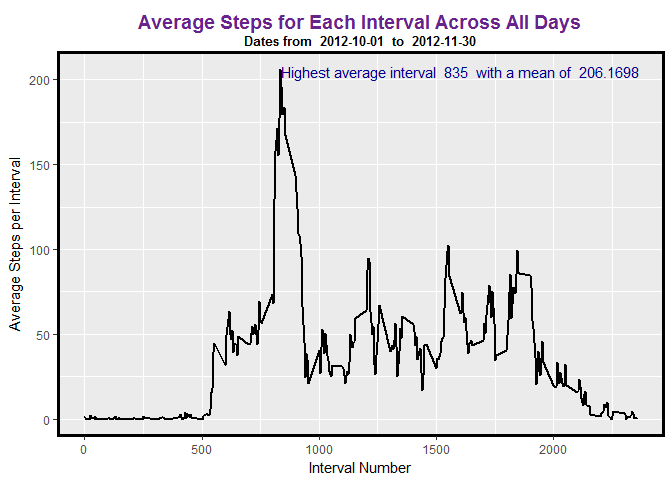
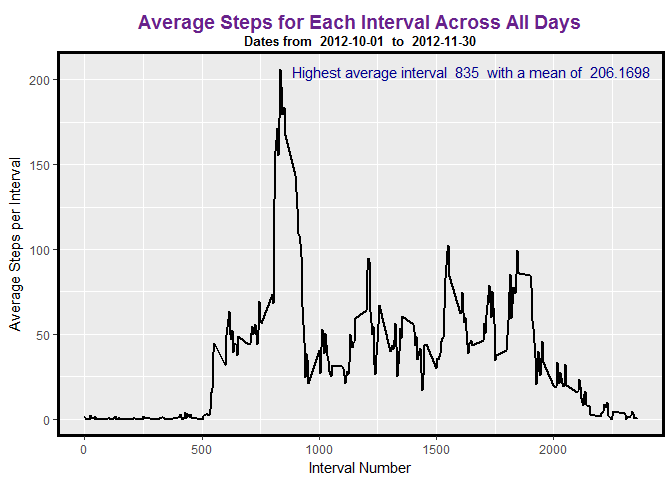
First Draft

Changed region(s): [[0.4062, 0.125, 0.9688, 0.1875]]

diff --git a/PA1_template.html b/PA1_template.html
@@ -9,6 +9,7 @@
 <meta name="generator" content="pandoc" />
 
 
+<meta name="author" content="Victoria Cocco" />
 
 
 <title>Reproducible Research: Peer Assessment 1</title>
@@ -116,19 +117,25 @@ $(document).ready(function () {
 
 
 <h1 class="title toc-ignore">Reproducible Research: Peer Assessment 1</h1>
+<h4 class="author"><em>Victoria Cocco</em></h4>
 
 </div>
 
 
 <div id="loading-and-preprocessing-the-data" class="section level2">
 <h2>Loading and preprocessing the data</h2>
+<div id="load-the-data-i.e.read.csv" class="section level3">
+<h3>Load the data (i.e. read.csv())</h3>
+</div>
+<div id="processtransform-the-data-if-necessary-into-a-format-suitable-for-your-analysis" class="section level3">
+<h3>Process/transform the data (if necessary) into a format suitable for your analysis</h3>
 <pre class="r"><code>        install.packages('dplyr', repos=&quot;http://cran.rstudio.com/&quot;)</code></pre>
 <pre><code>## Installing package into 'C:/Users/Victoria/Documents/R/win-library/3.3'
 ## (as 'lib' is unspecified)</code></pre>
 <pre><code>## package 'dplyr' successfully unpacked and MD5 sums checked
 ## 
 ## The downloaded binary packages are in
-##  C:\Users\Victoria\AppData\Local\Temp\Rtmp0SZZQA\downloaded_packages</code></pre>
+##  C:\Users\Victoria\AppData\Local\Temp\RtmpwFBnzv\downloaded_packages</code></pre>
 <pre class="r"><code>        library(dplyr)</code></pre>
 <pre><code>## Warning: package 'dplyr' was built under R version 3.3.3</code></pre>
 <pre><code>## 
@@ -145,7 +152,7 @@ $(document).ready(function () {
 <pre><code>## package 'dtplyr' successfully unpacked and MD5 sums checked
 ## 
 ## The downloaded binary packages are in
-##  C:\Users\Victoria\AppData\Local\Temp\Rtmp0SZZQA\downloaded_packages</code></pre>
+##  C:\Users\Victoria\AppData\Local\Temp\RtmpwFBnzv\downloaded_packages</code></pre>
 <pre class="r"><code>        library(dtplyr)</code></pre>
 <pre><code>## Warning: package 'dtplyr' was built under R version 3.3.3</code></pre>
 <pre class="r"><code>        install.packages('ggplot2', repos=&quot;http://cran.rstudio.com/&quot;)</code></pre>
@@ -154,7 +161,7 @@ $(document).ready(function () {
 <pre><code>## package 'ggplot2' successfully unpacked and MD5 sums checked
 ## 
 ## The downloaded binary packages are in
-##  C:\Users\Victoria\AppData\Local\Temp\Rtmp0SZZQA\downloaded_packages</code></pre>
+##  C:\Users\Victoria\AppData\Local\Temp\RtmpwFBnzv\downloaded_packages</code></pre>
 <pre class="r"><code>        library(ggplot2)</code></pre>
 <pre><code>## Warning: package 'ggplot2' was built under R version 3.3.3</code></pre>
 <pre class="r"><code>        workingdir &lt;- getwd()
@@ -173,6 +180,7 @@ $(document).ready(function () {
                 tblactivity &lt;- tbl_df(activity)
                 rm(activity)
         }</code></pre>
+</div>
 </div>
 <div id="what-is-mean-total-number-of-steps-taken-per-day" class="section level2">
 <h2>What is mean total number of steps taken per day?</h2>
@@ -291,11 +299,11 @@ $(document).ready(function () {
         submsg &lt;- paste(submsg, maxinterval)
         submsg &lt;- paste(submsg, &quot; with a mean of &quot;)
         submsg &lt;- paste(submsg, format(maxmeansteps, nsmall=3))
-        plot3 &lt;- plot3 + annotate(&quot;text&quot;, x = 1600, y = 205, label = submsg, color = &quot;blue4&quot;)
+        plot3 &lt;- plot3 + annotate(&quot;text&quot;, x = 1650, y = 205, label = submsg, color = &quot;blue4&quot;)
         
         
         print(plot3)</code></pre>
[2 lines of base64/hex data omitted]
 </div>
 </div>
 <div id="imputing-missing-values" class="section level2">
@@ -453,6 +461,71 @@ $(document).ready(function () {
 </div>
 <div id="are-there-differences-in-activity-patterns-between-weekdays-and-weekends" class="section level2">
 <h2>Are there differences in activity patterns between weekdays and weekends?</h2>
+<div id="create-a-new-factor-variable-in-the-dataset-with-two-levels-weekday-and-weekend" class="section level3">
+<h3>Create a new factor variable in the dataset with two levels – “weekday” and “weekend”</h3>
+</div>
+<div id="indicating-whether-a-given-date-is-a-weekday-or-weekend-day." class="section level3">
+<h3>indicating whether a given date is a weekday or weekend day.</h3>
+<pre class="r"><code>        tbldaysteps &lt;- tblcomplete %&gt;%
+                select(steps,
+                       interval,
+                       date) %&gt;%
+                mutate(intervaldate = as.Date(date, format = &quot;%Y-%m-%d&quot;))
+
+        tbldaysteps &lt;- tbldaysteps %&gt;%
+                select(steps,
+                       interval, 
+                       intervaldate) %&gt;%
+                mutate(datetype =  ifelse(weekdays(intervaldate)==&quot;Saturday&quot; |                                       weekdays(intervaldate)==&quot;Sunday&quot;, &quot;Weekend&quot;, &quot;Weekday&quot;)) %&gt;%
+                arrange(datetype, interval) %&gt;%
+                group_by(datetype, interval) %&gt;%
+                summarise(meansteps = mean(steps))</code></pre>
+</div>
+<div id="make-a-panel-plot-containing-a-time-series-plotof-the-5-minute-interval-x-axis" class="section level3">
+<h3>Make a panel plot containing a time series plotof the 5-minute interval (x-axis)</h3>
+</div>
+<div id="and-the-average-number-of-steps-taken" class="section level3">
+<h3>and the average number of steps taken,</h3>
+</div>
+<div id="averaged-across-all-weekday-days-or-weekend-days-y-axis." class="section level3">
+<h3>averaged across all weekday days or weekend days (y-axis).</h3>
+</div>
+<div id="the-plot-should-look-something-like-the-following" class="section level3">
+<h3>The plot should look something like the following,</h3>
+</div>
+<div id="which-was-created-using-simulated-data" class="section level3">
+<h3>which was created using simulated data:</h3>
+<pre class="r"><code>                cbPalette &lt;- c(&quot;purple2&quot;, 
+                               &quot;blue4&quot;)
+                
+                #create the plot
+                plot5 &lt;- ggplot(tbldaysteps, aes(x= interval, 
+                                             y= meansteps,
+                                             group = datetype, 
+                                             colour= datetype))
+                plot5 &lt;- plot5 + geom_line(size = 1) 
+                plot5 &lt;- plot5 + scale_colour_manual(values = cbPalette)
+                plot5 &lt;- plot5 + facet_wrap(~ datetype, ncol = 1, nrow = 2)
+                plot5 &lt;- plot5 + labs(x = &quot;Interval Number&quot; ,
+                                      y = &quot;Average Steps per Interval&quot;, 
+                                      title = &quot;Average Steps for Each Interval Across Each Day Type&quot;)
+                plot5 &lt;- plot5 + theme(plot.title=element_text(size=14, 
+                                                               hjust=0.5, 
+                                                               face=&quot;bold&quot;, 
+                                                               colour=&quot;darkorchid4&quot;, 
+                                                               vjust=-1))
+                plot5 &lt;- plot5 + theme(plot.subtitle=element_text(size=10, 
+                                                                  hjust=0.5, 
+                                                                  face=&quot;bold&quot;, 
+                                                                  colour=&quot;black&quot;, 
+                                                                  vjust=-1))
+                plot5 &lt;- plot5 + theme(panel.border = element_rect(colour = &quot;black&quot;,
+                                                                   fill=NA, 
+                                                                   size=2))
+                plot5 &lt;- plot5 + theme(legend.position=&quot;none&quot;)
+                print(plot5) </code></pre>
[1 lines of base64/hex data omitted]
+</div>
 </div>
 
 

diff --git a/PA1_template.md b/PA1_template.md
@@ -1,7 +1,10 @@
 # Reproducible Research: Peer Assessment 1
+Victoria Cocco  
 
 
 ## Loading and preprocessing the data
+### Load the data (i.e. read.csv())
+### Process/transform the data (if necessary) into a format suitable for your analysis
 
 
 
@@ -18,7 +21,7 @@
 ## package 'dplyr' successfully unpacked and MD5 sums checked
 ## 
 ## The downloaded binary packages are in
-## 	C:\Users\Victoria\AppData\Local\Temp\Rtmp0SZZQA\downloaded_packages
+## 	C:\Users\Victoria\AppData\Local\Temp\RtmpwFBnzv\downloaded_packages
 ```
 
 ```r
@@ -59,7 +62,7 @@
 ## package 'dtplyr' successfully unpacked and MD5 sums checked
 ## 
 ## The downloaded binary packages are in
-## 	C:\Users\Victoria\AppData\Local\Temp\Rtmp0SZZQA\downloaded_packages
+## 	C:\Users\Victoria\AppData\Local\Temp\RtmpwFBnzv\downloaded_packages
 ```
 
 ```r
@@ -83,7 +86,7 @@
 ## package 'ggplot2' successfully unpacked and MD5 sums checked
 ## 
 ## The downloaded binary packages are in
-## 	C:\Users\Victoria\AppData\Local\Temp\Rtmp0SZZQA\downloaded_packages
+## 	C:\Users\Victoria\AppData\Local\Temp\RtmpwFBnzv\downloaded_packages
 ```
 
 ```r
@@ -244,7 +247,7 @@
         submsg <- paste(submsg, maxinterval)
         submsg <- paste(submsg, " with a mean of ")
         submsg <- paste(submsg, format(maxmeansteps, nsmall=3))
-        plot3 <- plot3 + annotate("text", x = 1600, y = 205, label = submsg, color = "blue4")
+        plot3 <- plot3 + annotate("text", x = 1650, y = 205, label = submsg, color = "blue4")
         
         
         print(plot3)
@@ -409,3 +412,62 @@
 ## [1] "The difference between median with NAs and the imputed median is  -1.1886792452824"
 ```
 ## Are there differences in activity patterns between weekdays and weekends?
+### Create a new factor variable in the dataset with two levels – “weekday” and “weekend”
+### indicating whether a given date is a weekday or weekend day.
+
+```r
+        tbldaysteps <- tblcomplete %>%
+                select(steps,
+                       interval,
+                       date) %>%
+                mutate(intervaldate = as.Date(date, format = "%Y-%m-%d"))
+
+        tbldaysteps <- tbldaysteps %>%
+                select(steps,
+                       interval, 
+                       intervaldate) %>%
+                mutate(datetype =  ifelse(weekdays(intervaldate)=="Saturday" |                                       weekdays(intervaldate)=="Sunday", "Weekend", "Weekday")) %>%
+                arrange(datetype, interval) %>%
+                group_by(datetype, interval) %>%
+                summarise(meansteps = mean(steps))
+```
+### Make a panel plot containing a time series plotof the 5-minute interval (x-axis) 
+### and the average number of steps taken, 
+### averaged across all weekday days or weekend days (y-axis). 
+### The plot should look something like the following, 
+### which was created using simulated data:
+
+```r
+                cbPalette <- c("purple2", 
+                               "blue4")
+                
+                #create the plot
+                plot5 <- ggplot(tbldaysteps, aes(x= interval, 
+                                             y= meansteps,
+                                             group = datetype, 
+                                             colour= datetype))
+                plot5 <- plot5 + geom_line(size = 1) 
+                plot5 <- plot5 + scale_colour_manual(values = cbPalette)
+                plot5 <- plot5 + facet_wrap(~ datetype, ncol = 1, nrow = 2)
+                plot5 <- plot5 + labs(x = "Interval Number" ,
+                                      y = "Average Steps per Interval", 
+                                      title = "Average Steps for Each Interval Across Each Day Type")
+                plot5 <- plot5 + theme(plot.title=element_text(size=14, 
+                                                               hjust=0.5, 
+                                                               face="bold", 
+                                                               colour="darkorchid4", 
+                                                               vjust=-1))
+                plot5 <- plot5 + theme(plot.subtitle=element_text(size=10, 
+                                                                  hjust=0.5, 
+                                                                  face="bold", 
+                                                                  colour="black", 
+                                                                  vjust=-1))
+                plot5 <- plot5 + theme(panel.border = element_rect(colour = "black",
+                                                                   fill=NA, 
+                                                                   size=2))
+                plot5 <- plot5 + theme(legend.position="none")
+                print(plot5) 
+```
+
+![](PA1_template_files/figure-html/unnamed-chunk-9-1.png)<!-- -->
+                
